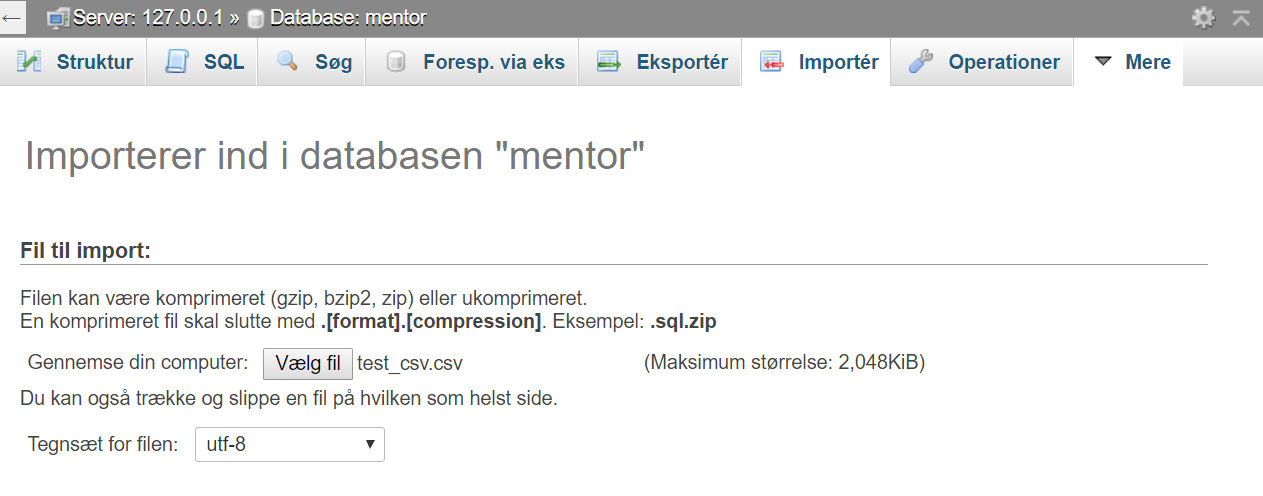
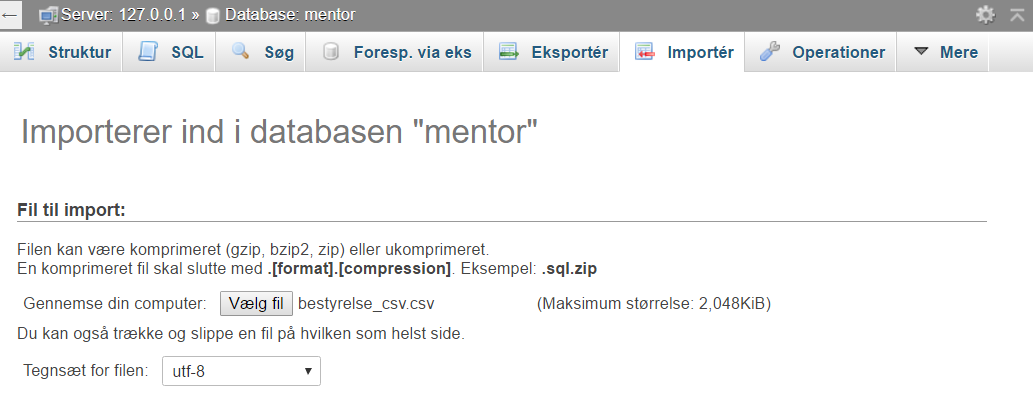
1

diff --git a/mysql/MySQL_database_opret_database.html b/mysql/MySQL_database_opret_database.html
@@ -759,7 +759,7 @@ bs4,Dorte,Dotsen,23344559,dd@fakemail.dk
 bs5,Egon,Egonsen,23344560,ee@fakemail.dk
 bs6,Frederikke,Frederiksen,23344561,ff@fakemail.dk</pre>
 
-<p>Du kan hente denne lille csv fil her: <a href="files/bestyrelse_csv.csv" download>bestyrelse_csv.csv</a>. Som standard bliver den lagt i mappen <span class="inl_cmd">Overførsler</span>.</p>
+<p>Du kan hente denne lille csv fil her: <a href="files/bestyrelse_csv.csv" download>bestyrelse_csv.csv</a>.</p>
 
 <p>Man kan importere <span class="inl_cmd">csv</span>-filer ved at vælge sin database og vælge menuen <span class="inl_cmd">Importer</span>. Vælg databasen <span class="inl_cmd">mentorer</span> og herefter menuen <span class="inl_cmd">Importer</span>.</p>
 
@@ -815,7 +815,7 @@ bs6,Frederikke,Frederiksen,23344561,ff@fakemail.dk</pre>
 
 </figure>
 
-<p>SOm det er nu har tabellen ingen primærnøgle</p>
+<p>Som det sidste ændrer du er nu har tabellen ingen primærnøgle</p>
 
 <p>Det kan være nødvendigt at justere på datatyperne og deres længder, hvis der senere skal ændres i listen</p>
 	
